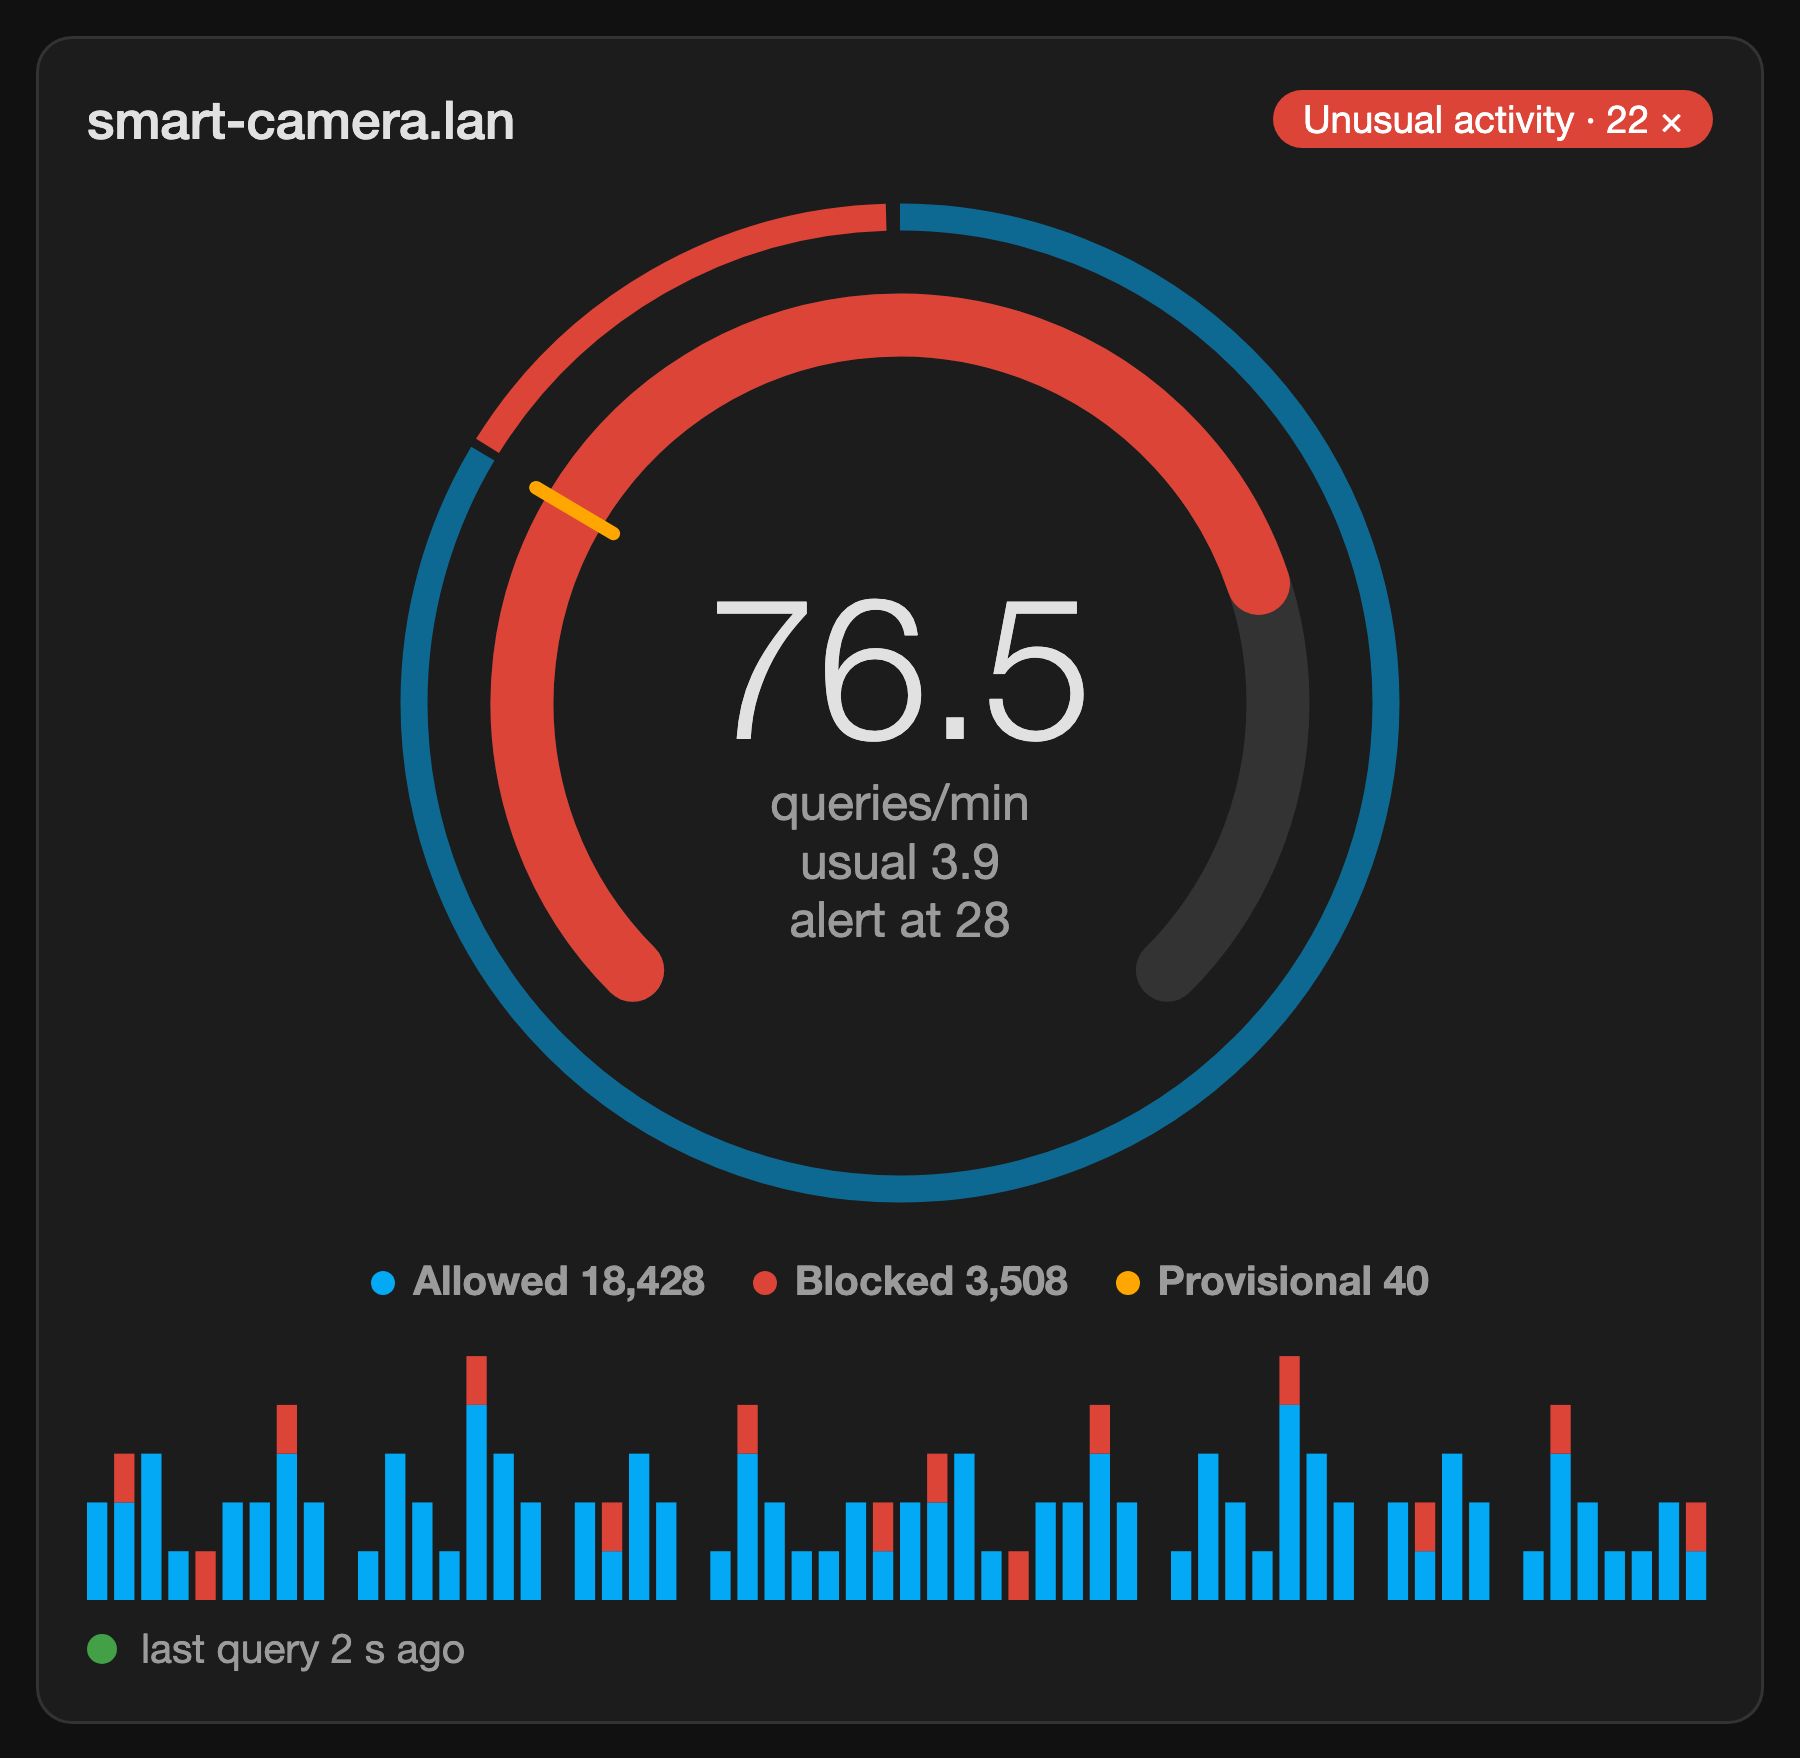
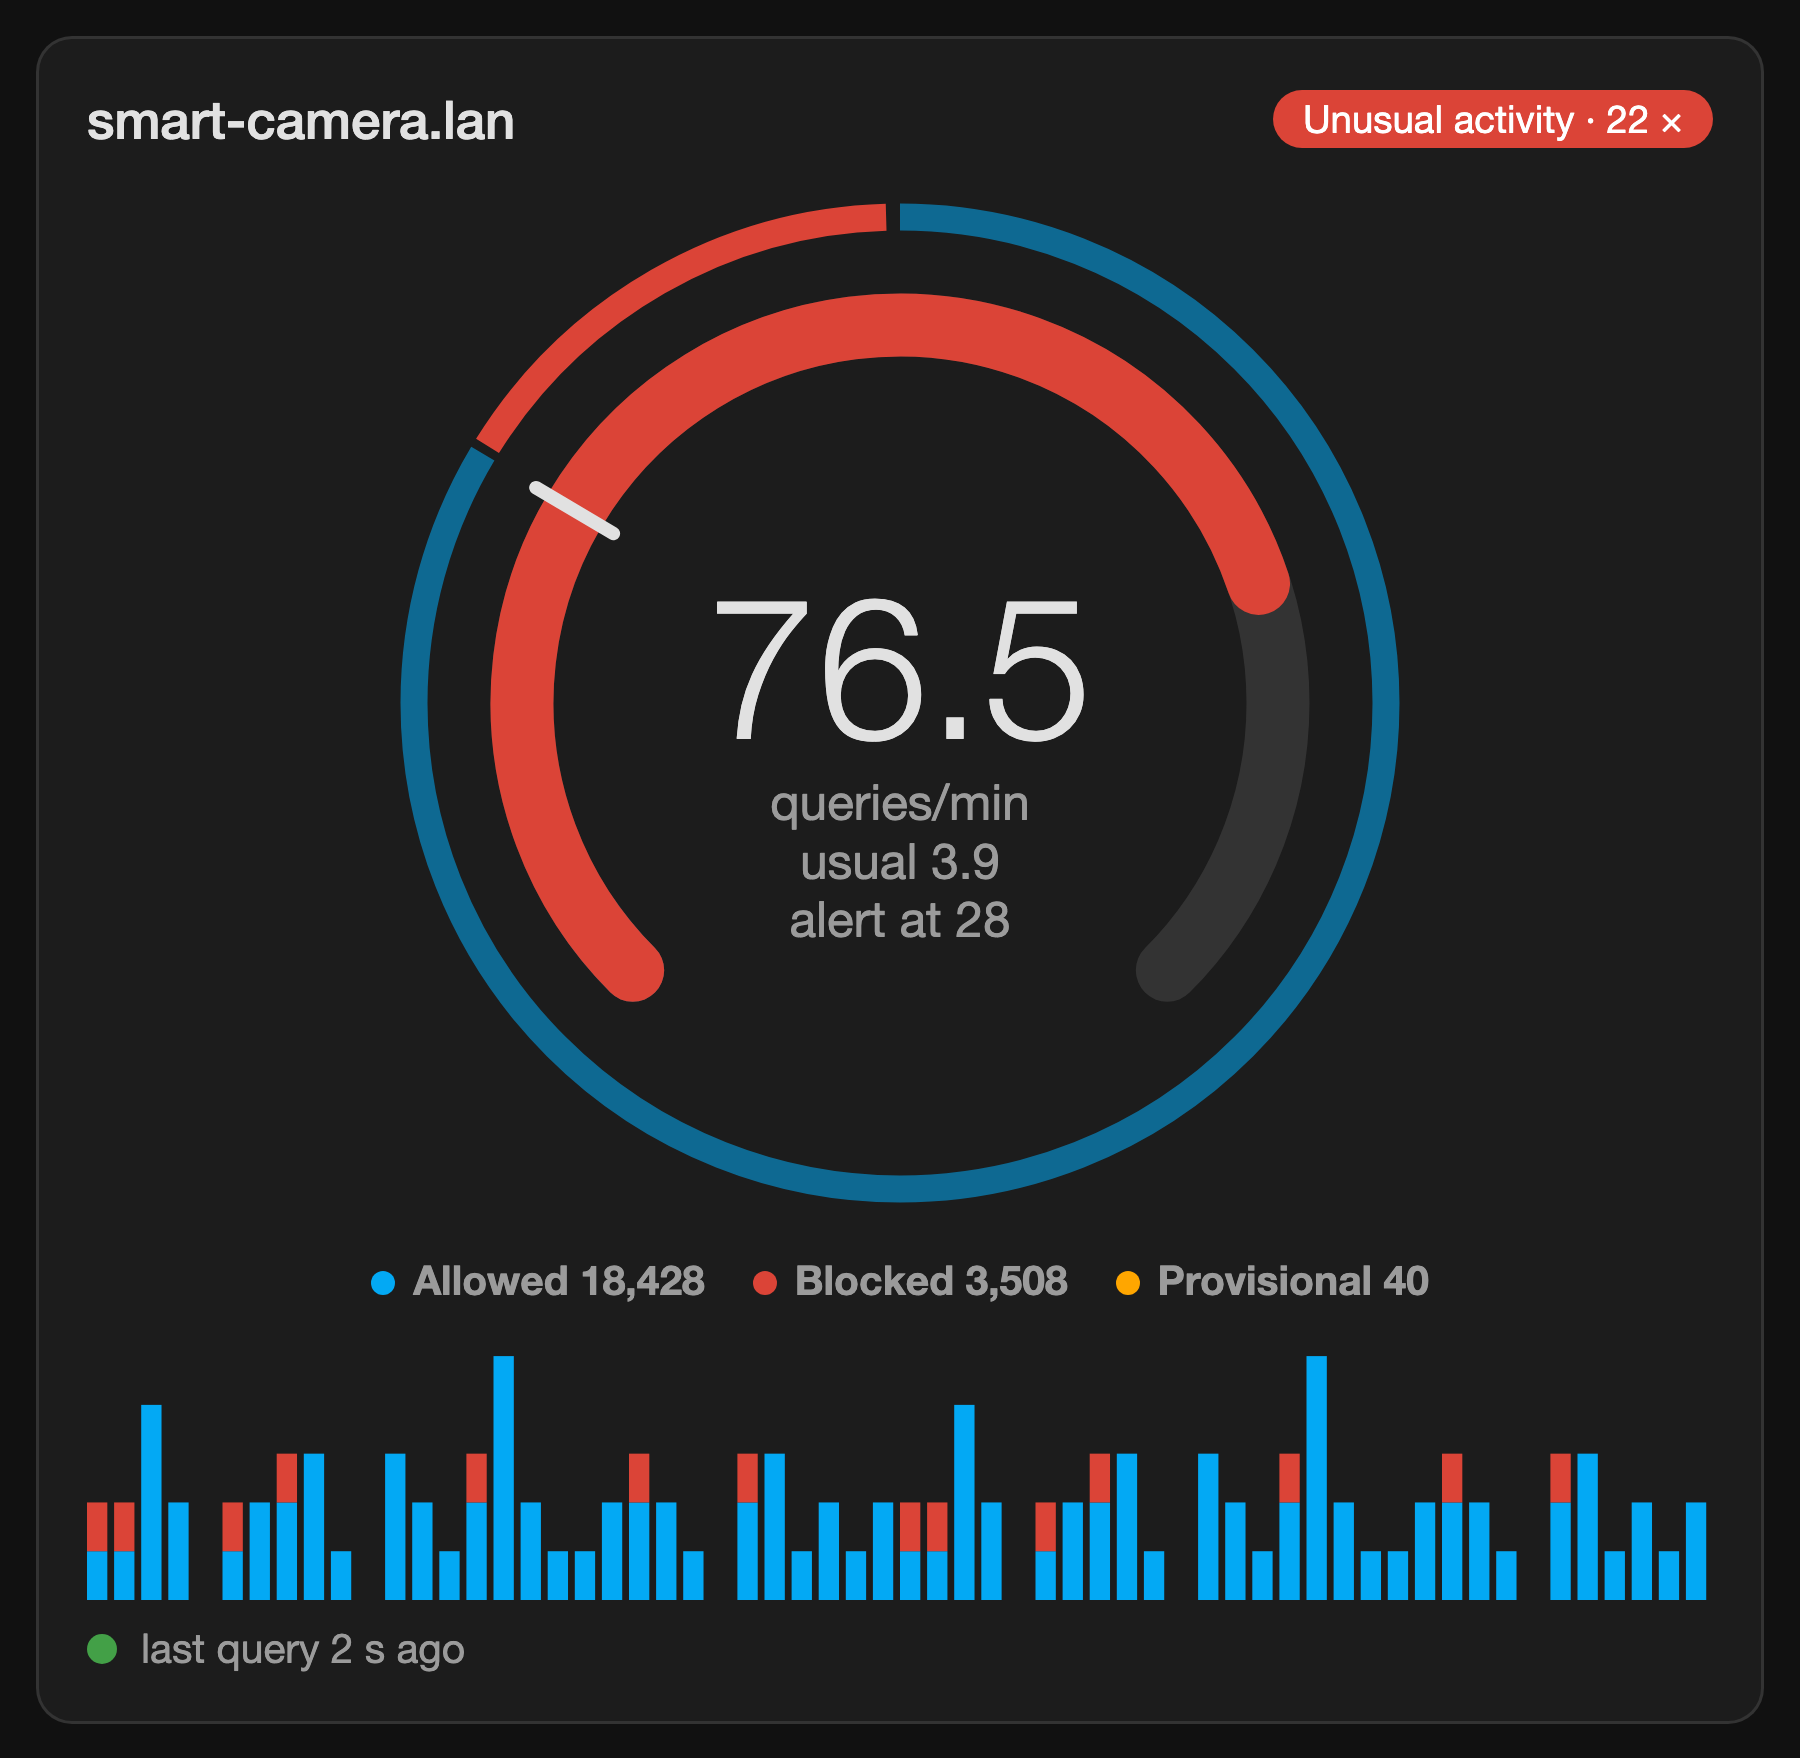
Give the live card's threshold mark its own color
It shared the amber of the provisional queries, which made the two look
related. Use the theme's primary text color and refresh the screenshots.

diff --git a/custom_components/pihole_queries/frontend/phe-activity-card.js b/custom_components/pihole_queries/frontend/phe-activity-card.js
@@ -694,7 +694,7 @@ class PheLiveCard extends HTMLElement {
         .band { fill:none; stroke:var(--primary-color); stroke-width:14; stroke-linecap:round; opacity:.22; }
         .value { fill:none; stroke:var(--primary-color); stroke-width:14; stroke-linecap:round; }
         .alert .value { stroke:var(--error-color); }
-        .limit { stroke:var(--warning-color); stroke-width:3; stroke-linecap:round; }
+        .limit { stroke:var(--primary-text-color); stroke-width:3; stroke-linecap:round; }
         .seg { fill:none; stroke-width:6; transform:rotate(-90deg); transform-origin:120px 120px; }
         .animate .seg { transition:stroke-dasharray .8s ease, stroke-dashoffset .8s ease; }
         .num { font-size:44px; font-weight:300; text-anchor:middle; fill:var(--primary-text-color); }

diff --git a/CHANGELOG.md b/CHANGELOG.md
@@ -12,6 +12,7 @@ All notable changes to Pi-hole Extended. Versions follow [Semantic Versioning](h
 - The live card editor only writes the options you change, so the YAML no longer lists every default.
 
 ### Fixed
+- The live card's alert threshold mark no longer uses the same amber as the provisional queries.
 - Card translations are revalidated on every load and never show "undefined" when a text is missing, so an updated card no longer shows blanks with old cached translations.
 - The live card's gauge, ring and bars toggles did nothing, because SVG elements have no `hidden` property.
 - The 60-second bars are kept per device, so they no longer disappear when the card is rebuilt, for example on every change in the card editor.
